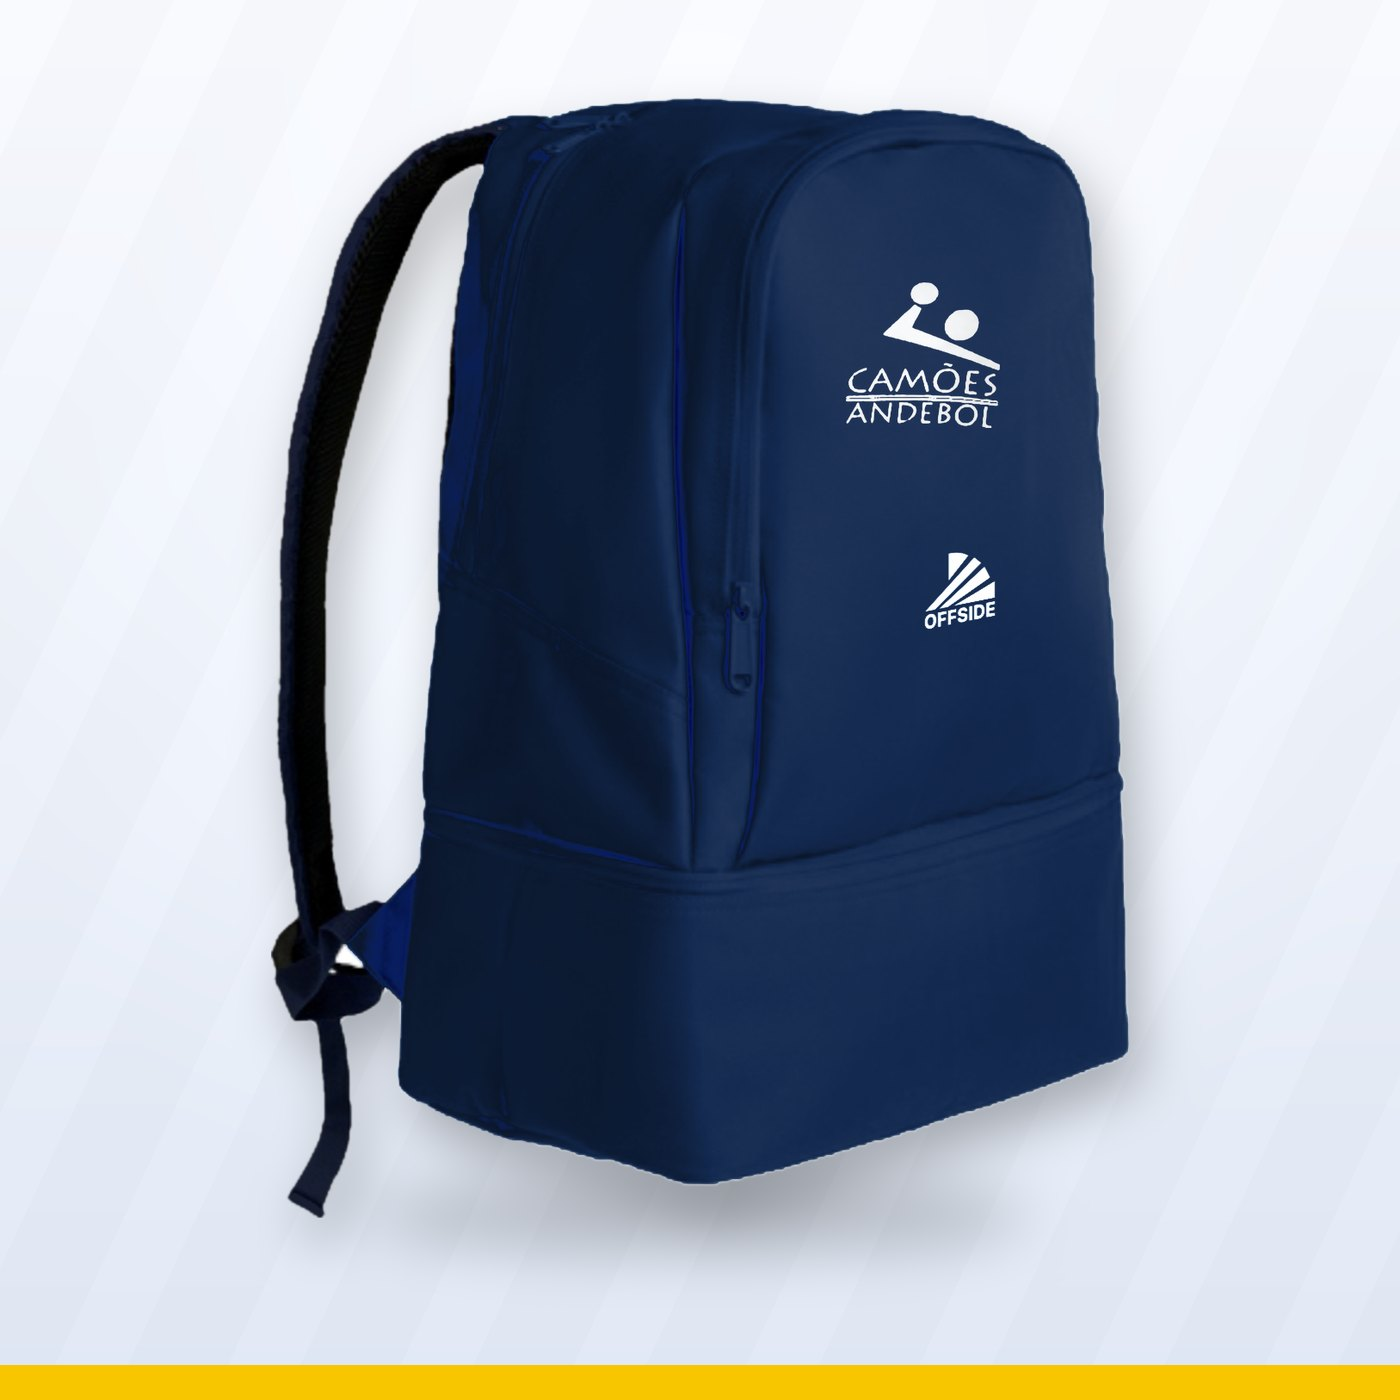
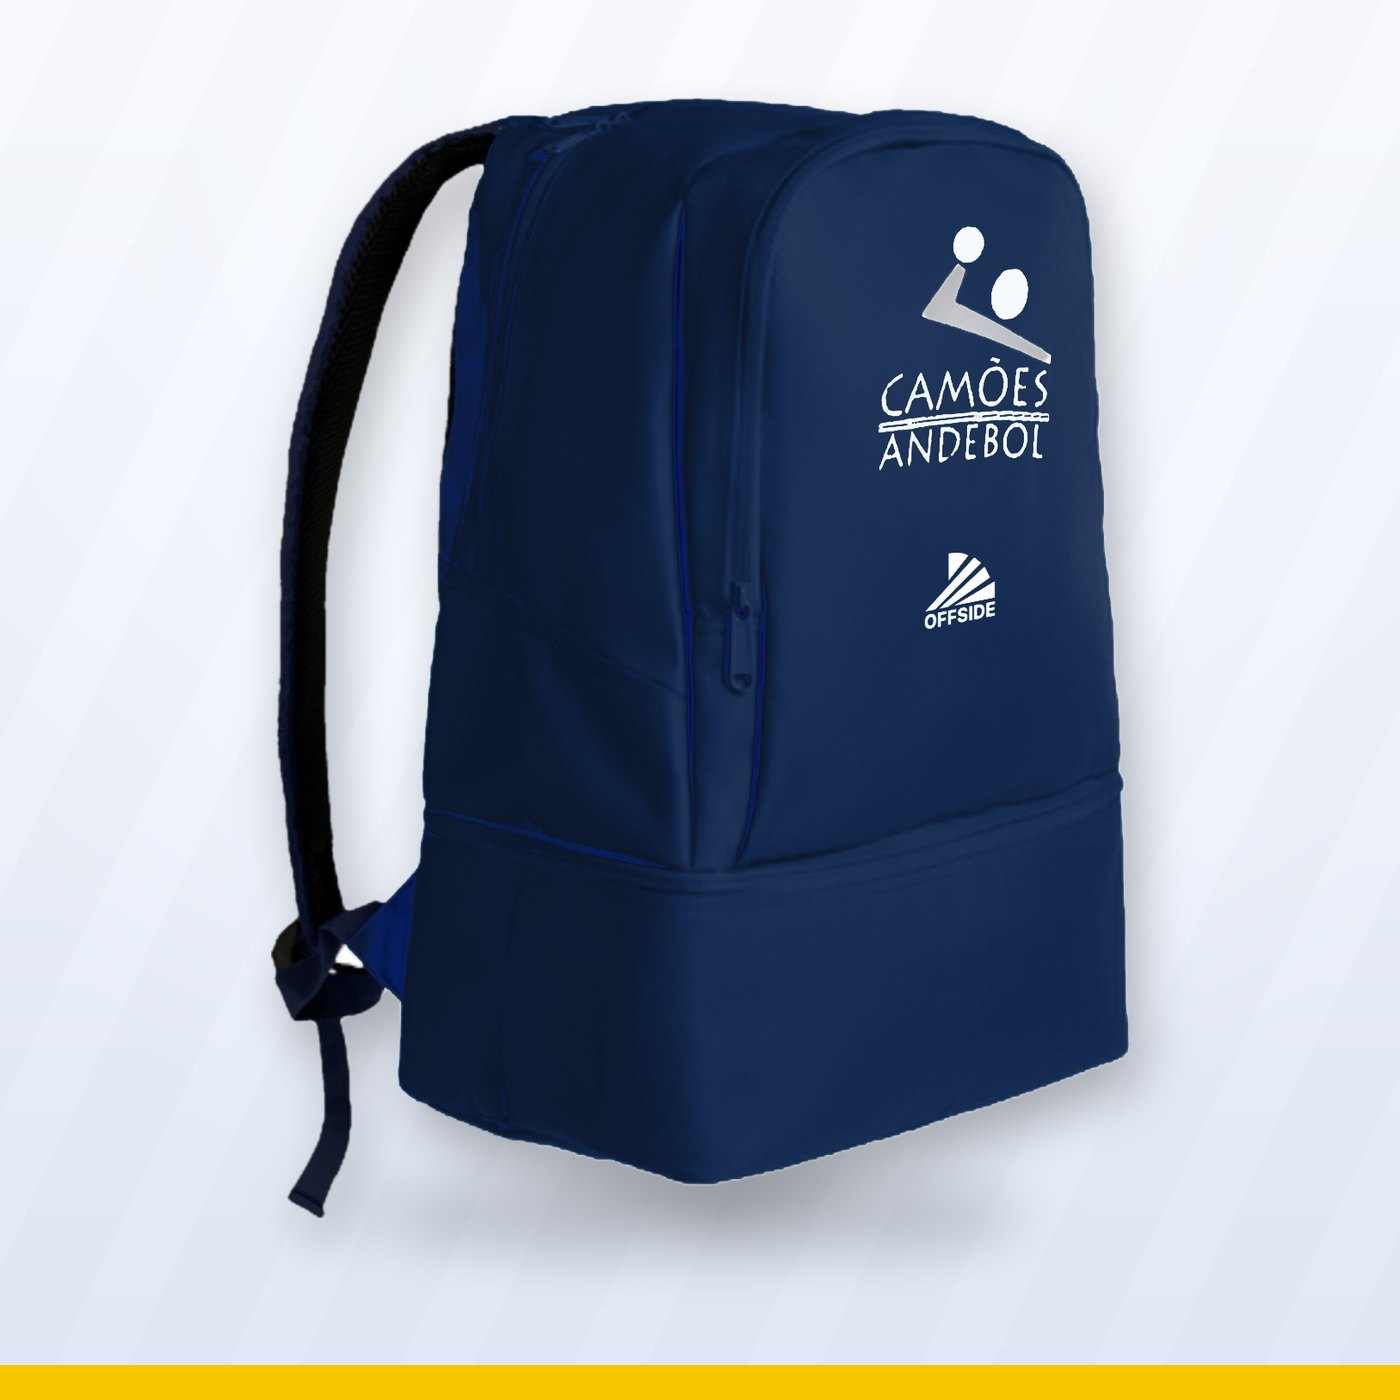
Imagens: símbolo alinhado no fato de treino e estampado na mochila
- Fato de treino de saída: o símbolo do Camões passa a ficar exatamente
  na mesma linha do logótipo da marca (centro calculado a partir do
  logótipo), na outra perna das calças e no outro lado do casaco
- Mochila: o símbolo do Camões é projetado com a perspetiva do painel da
  frente, centrado acima do logótipo da marca, para parecer estampado
- Script: deteção do logótipo da marca ignora o fundo e os logótipos
  nunca saem fora da peça

Claude-Session: https://claude.ai/code/session_01CYXiLtVvoxdWRdnvMfLoHt

Changed region(s): [[0.5836, 0.1536, 0.7679, 0.3379]]

diff --git a/scripts/build_product_images.py b/scripts/build_product_images.py
@@ -105,7 +105,8 @@ def apply_logo(a, mask, cx, cy, width, dark=True, opacity=0.95):
     lw = int(w * width)
     lh = int(logo.height * lw / logo.width)
     lg = np.asarray(logo.resize((lw, lh), Image.LANCZOS), np.float32) / 255
-    x0, y0 = int(w * cx - lw / 2), int(h * cy - lh / 2)
+    x0 = min(max(int(w * cx - lw / 2), 0), w - lw)
+    y0 = min(max(int(h * cy - lh / 2), 0), h - lh)
     region = a[y0 : y0 + lh, x0 : x0 + lw]
     lum = ndi.gaussian_filter(region @ np.array([0.299, 0.587, 0.114], np.float32), 2)
     shade = np.clip(lum / max(np.median(lum), 1e-3), 0.8, 1.08)[..., None]  # a tinta segue os vincos
@@ -122,7 +123,7 @@ def to_img(arr):
 OFFSIDE = Image.open("scripts/assets/offside-mark.png")
 
 
-def brand(a, orig, box, dark):
+def brand(a, orig, box, dark, place_mark=True, mask=None):
     """Substitui o logótipo da marca (Offside) por uma versão limpa, na mesma cor do
     símbolo do Camões. box = (x0, y0, x1, y1) em frações da peça, à volta do logótipo."""
     h, w, _ = a.shape
@@ -134,6 +135,8 @@ def brand(a, orig, box, dark):
     diff = np.abs(src - fabric).max(2)
     if fabric.max() - fabric.min() < 0.08:  # tecido neutro: a cor do logótipo também conta
         diff = np.maximum(diff, src.max(2) - src.min(2))
+    if mask is not None:  # ignorar o fundo à volta da peça
+        diff = diff * ndi.binary_erosion(mask[y0:y1, x0:x1] > 0.5, iterations=4)
     logo = ndi.binary_opening(diff > 0.2, iterations=1)
     ys, xs = np.where(logo)
     if not len(ys):
@@ -149,6 +152,8 @@ def brand(a, orig, box, dark):
     den = ndi.gaussian_filter(keep, sigma)[..., None] + 1e-6
     filled = num / den
     region[:] = region * keep[..., None] + filled * hole[..., None]
+    if not place_mark:
+        return a
 
     # 2) colocar o logótipo limpo, do mesmo tamanho e no mesmo sítio
     bw, bh = lx1 - lx0, ly1 - ly0
@@ -161,7 +166,75 @@ def brand(a, orig, box, dark):
     target = a[my0 : my0 + nh, mx0 : mx0 + nw]
     al = mark[: target.shape[0], : target.shape[1], None]
     a[my0 : my0 + nh, mx0 : mx0 + nw] = target * (1 - al) + color * al
+    # centro do logótipo da marca (frações), para alinhar o símbolo do Camões na mesma linha
+    brand.last = (cx / w, cy / h)
     return a
+
+
+def place_mark(a, cx, cy, width, dark):
+    """Coloca o logótipo limpo da marca centrado em (cx, cy), com `width` em fração da largura."""
+    h, w, _ = a.shape
+    nw = int(w * width)
+    nh = int(OFFSIDE.height * nw / OFFSIDE.width)
+    mark = np.asarray(OFFSIDE.resize((nw, nh), Image.LANCZOS), np.float32)[..., 3:4] / 255
+    x0, y0 = int(w * cx - nw / 2), int(h * cy - nh / 2)
+    color = np.array(NAVY if dark else (250, 250, 250), np.float32) / 255
+    a[y0 : y0 + nh, x0 : x0 + nw] = a[y0 : y0 + nh, x0 : x0 + nw] * (1 - mark) + color * mark
+    return a
+
+
+def backpack_details(a, m):
+    """Desenha o fecho à volta do topo (paralelo ao contorno), puxadores e a costura do compartimento."""
+    h, w, _ = a.shape
+    inside = m > 0.5
+    dist = ndi.distance_transform_edt(inside)
+    d0 = w * 0.045  # o fecho corre a esta distância do contorno
+    yy, xx = np.mgrid[0:h, 0:w]
+    top = yy < h * 0.62
+    track = (np.abs(dist - d0) < w * 0.006) & top
+    shadow = (np.abs(dist - d0 - w * 0.008) < w * 0.004) & top
+    a[shadow] *= 0.7
+    a[track] = a[track] * 0.45
+    hl = (np.abs(dist - d0 + w * 0.007) < w * 0.0025) & top
+    a[hl] = np.minimum(a[hl] * 1.5, 1)
+    # puxadores (perto dos cantos de cima)
+    img = to_img(a)
+    dr = ImageDraw.Draw(img)
+    for side in (1, -1):
+        ys = np.where(track[:, w // 2 + side * int(w * 0.3)])[0]
+        if len(ys):
+            px, py = w // 2 + side * int(w * 0.3), int(ys.min())
+            dr.rounded_rectangle((px - w * 0.018, py, px + w * 0.018, py + h * 0.07), radius=w * 0.01, fill=(12, 26, 52))
+            dr.rounded_rectangle((px - w * 0.01, py + h * 0.012, px + w * 0.01, py + h * 0.05), radius=w * 0.005, fill=(40, 60, 100))
+    # puxador do compartimento de baixo
+    seam_y = int(h * 0.705)
+    dr.rounded_rectangle((w * 0.78, seam_y - h * 0.008, w * 0.81, seam_y + h * 0.05), radius=w * 0.008, fill=(12, 26, 52))
+    a = np.asarray(img, np.float32) / 255
+    return a
+
+
+def warp_to(flat, quad, size):
+    """Projeta uma imagem "de frente" (`flat`) sobre a zona `quad` (4 cantos) de uma imagem de tamanho `size`."""
+    W, H = flat.size
+    src = [(0, 0), (W, 0), (W, H), (0, H)]
+    A, B = [], []
+    for (x, y), (X, Y) in zip(quad, src):
+        A += [[x, y, 1, 0, 0, 0, -X * x, -X * y], [0, 0, 0, x, y, 1, -Y * x, -Y * y]]
+        B += [X, Y]
+    c = np.linalg.solve(np.array(A, float), np.array(B, float)).tolist()
+    return flat.transform(size, Image.PERSPECTIVE, c, Image.BICUBIC)
+
+
+def perspective(img, src_quad, size):
+    """Endireita a zona `src_quad` (4 cantos: sup-esq, sup-dir, inf-dir, inf-esq) para um retângulo."""
+    W, H = size
+    dst = [(0, 0), (W, 0), (W, H), (0, H)]
+    A, B = [], []
+    for (x, y), (X, Y) in zip(dst, src_quad):
+        A += [[x, y, 1, 0, 0, 0, -X * x, -X * y], [0, 0, 0, x, y, 1, -Y * x, -Y * y]]
+        B += [X, Y]
+    c = np.linalg.solve(np.array(A, float), np.array(B, float)).tolist()
+    return img.transform(size, Image.PERSPECTIVE, c, Image.BICUBIC, fillcolor=(255, 255, 255))
 
 
 def background():
@@ -220,10 +293,21 @@ if __name__ == "__main__":
     # Regra: o logótipo da marca (Offside) fica sempre da mesma cor que o símbolo do Camões,
     # e o símbolo do Camões fica espelhado em relação ao da marca (mesma altura, lado oposto).
 
-    # Mochila — azul-escuro (ambos os logótipos já são brancos)
-    rgb, m = cutout(backpack_src, (270, 445, 1250, 1700))
-    rgb = recolor(rgb, NAVY, keep_dark=True)
-    rgb = apply_logo(rgb, m, 0.76, 0.23, 0.18, dark=False)
+    # Mochila — azul-escuro. O símbolo do Camões é desenhado "de frente" e depois projetado com a
+    # perspetiva do painel da frente da mochila, para parecer estampado no tecido.
+    bp_img = Image.open(f"{SRC}/bae1f97b-image.png").convert("RGB")
+    panel = [(750, 455), (1240, 455), (1245, 1500), (750, 1665)]  # cantos do painel da frente na foto
+    PW, PH = 700, 1100
+    flat = Image.new("RGBA", (PW, PH), (255, 255, 255, 0))
+    lw = int(PW * 0.4)
+    lg = LOGO_WHITE.resize((lw, int(LOGO_WHITE.height * lw / LOGO_WHITE.width)), Image.LANCZOS)
+    flat.alpha_composite(lg, (int(PW * 0.585 - lw / 2), int(PH * 0.13)))
+    warped = warp_to(flat, panel, bp_img.size)
+    al = np.asarray(warped, np.float32)[..., 3:4] / 255 * 0.96
+    full = np.asarray(bp_img, np.float32) / 255
+    full = full * (1 - al) + 1.0 * al
+    rgb, m = cutout(full, (270, 445, 1250, 1700))
+    rgb = recolor(rgb, NAVY, keep_dark=True)  # o branco do símbolo e da marca não tem cor: mantém-se
     save(place(background(), rgb, m, 0.5, 0.47, 0.8), "mochila-azul-escuro")
 
     # Camisola térmica — amarelo, branco, azul (sem logótipo da marca)
@@ -258,10 +342,12 @@ if __name__ == "__main__":
     pants0, mpn = cutout(fato, (150, 780, 480, 1645))
     for name, color in [("fato-saida-azul-escuro", NAVY), ("fato-saida-preto", BLACK)]:
         jacket = brand(recolor(jacket0, color, keep_dark=False), jacket0, (0.24, 0.25, 0.33, 0.31), dark=False)
-        jacket = apply_logo(jacket, mj, 0.715, 0.28, 0.13, dark=False)
+        bx, by = brand.last
+        jacket = apply_logo(jacket, mj, 1 - bx, by, 0.13, dark=False)
         pants = recolor(pants0, color, keep_dark=False, soften=1.0, neutral_fabric=mpn) if color != BLACK else pants0.copy()
-        pants = brand(pants, pants0, (0.84, 0.22, 1.0, 0.35), dark=False)
-        pants = apply_logo(pants, mpn, 0.11, 0.285, 0.14, dark=False)
+        pants = brand(pants, pants0, (0.84, 0.22, 1.0, 0.35), dark=False, mask=mpn)
+        bx, by = brand.last  # símbolo do Camões na mesma linha do logótipo da marca, na outra perna
+        pants = apply_logo(pants, mpn, 1 - bx, by, 0.14, dark=False)
         c = background()
         c = place(c, jacket, mj, 0.34, 0.42, 0.56)
         c = place(c, pants, mpn, 0.73, 0.52, 0.82)
